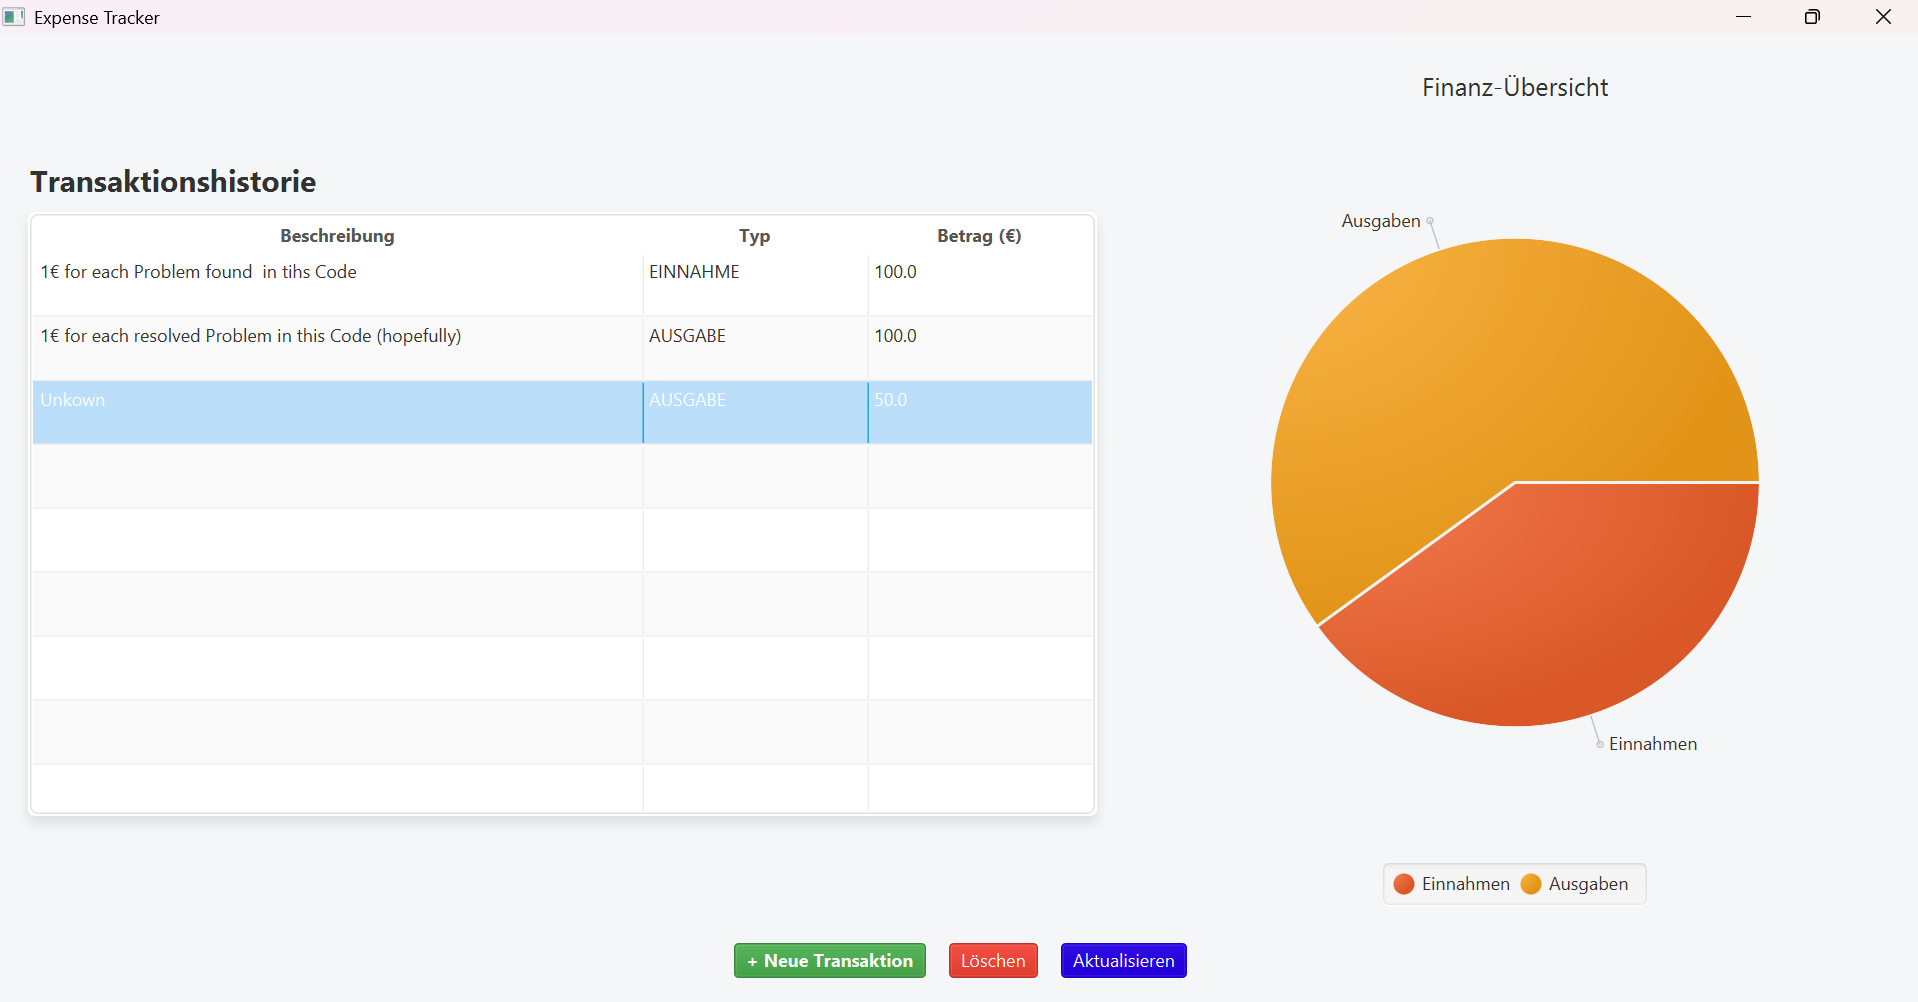
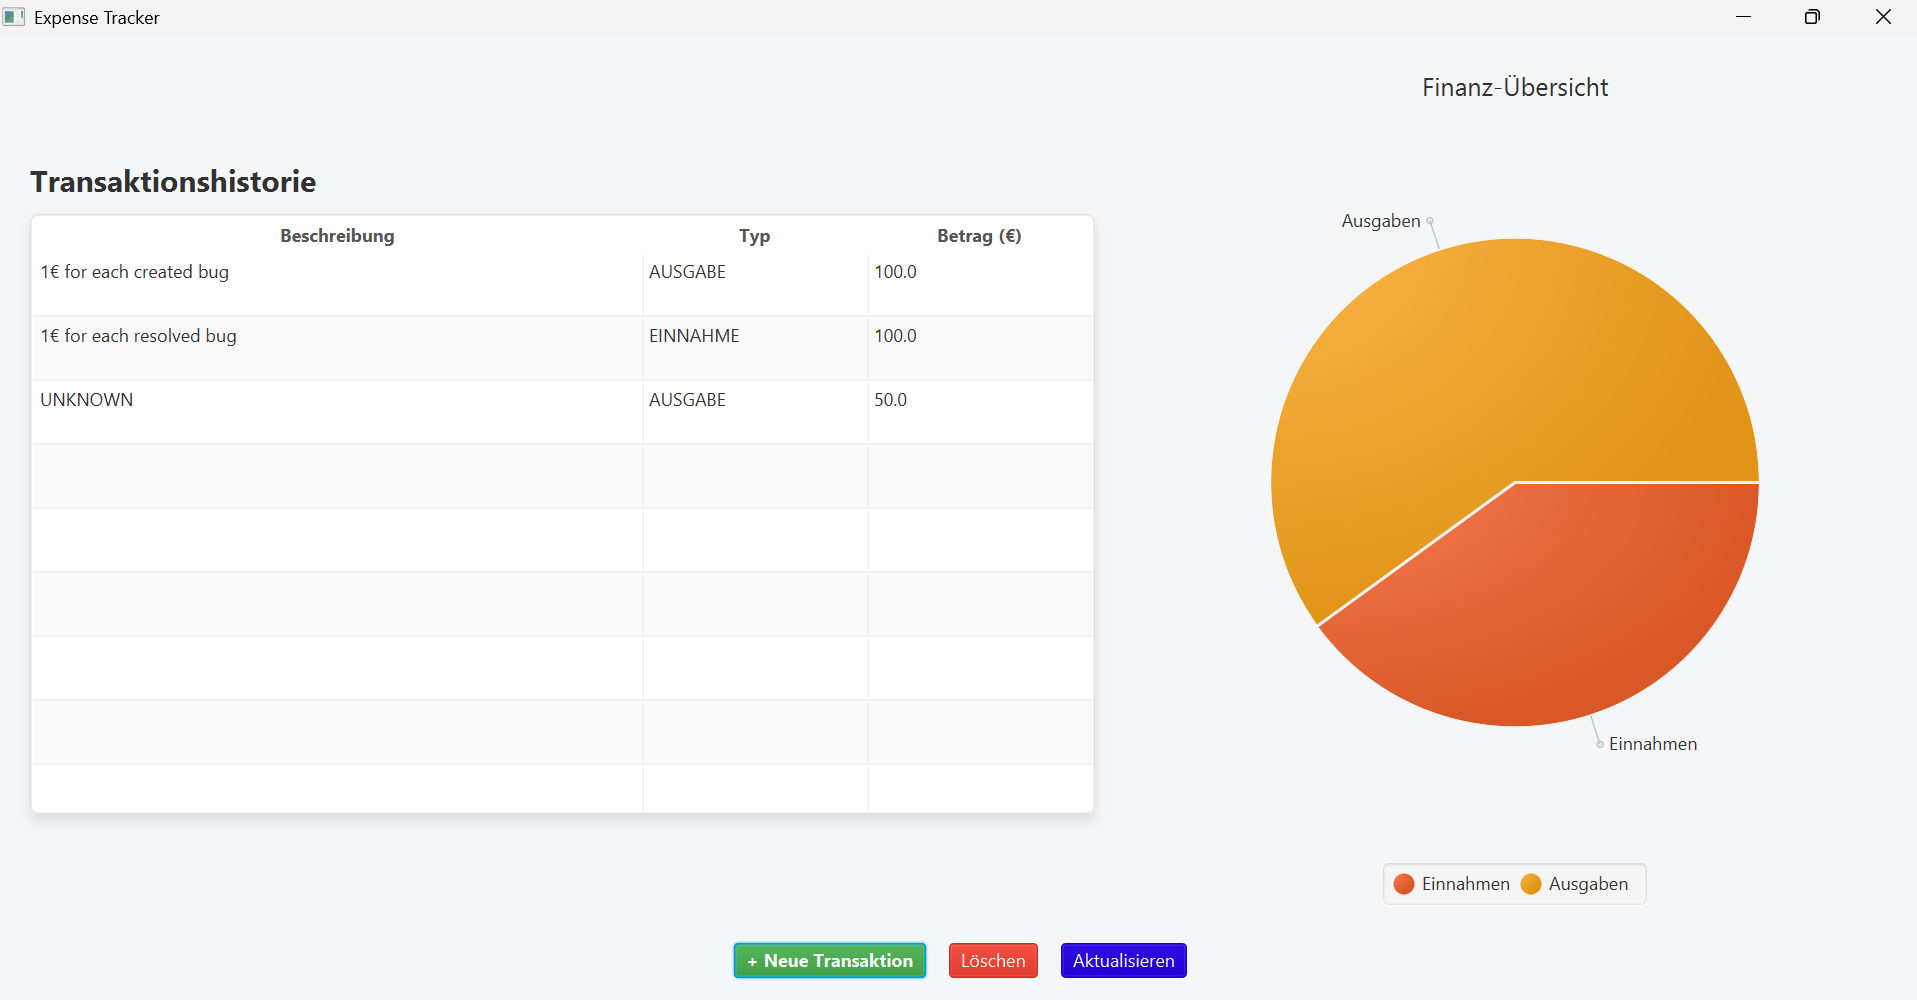
UML Diagramm erweitert/hinzugefügt, README korrigiert, erweitert

diff --git a/src/main/java/tracker/storage/TransactionFileStorage.java b/src/main/java/tracker/storage/TransactionFileStorage.java
@@ -12,9 +12,9 @@ import tracker.model.Type;
 
 public class TransactionFileStorage {
 
-    public static void saveTransactions(TransactionContainer p, String dateiPfad) {
+    public static void saveTransactions(TransactionContainer p) {
         System.out.println("Speichervorgang...");
-        Path pfad = Path.of(dateiPfad);
+        final Path pfad = Path.of("data", "Speicher.txt");
 
         try {
 
@@ -36,10 +36,10 @@ public class TransactionFileStorage {
         }
     }
 
-    public static TransactionContainer loadTransactions(String dateiPfad) {
+    public static TransactionContainer loadTransactions() {
 
         TransactionContainer Container = new TransactionContainer();
-        Path pfad = Path.of(dateiPfad);
+        Path pfad = Path.of("data", "Speicher.txt");
         if (!Files.exists(pfad)) {
             System.out.println("Keine Speicherdatei gefunden. Starte mit leerem Container");
             return Container;

diff --git a/src/main/java/tracker/service/TransactionManager.java b/src/main/java/tracker/service/TransactionManager.java
@@ -9,7 +9,6 @@ import tracker.storage.TransactionFileStorage;
 
 public class TransactionManager {
 
-    private static final String FILE_PATH = "Speicher.txt";
     private TransactionContainer container;
 
     public void TransactionHistory() {
@@ -19,7 +18,7 @@ public class TransactionManager {
     }
 
     public TransactionManager() {
-        this.container = TransactionFileStorage.loadTransactions(FILE_PATH);
+        this.container = TransactionFileStorage.loadTransactions();
     }
 
     public void addTransaction(String description, Type type, double sum) {
@@ -36,7 +35,7 @@ public class TransactionManager {
     }
 
     public void saveTransactions() {
-        TransactionFileStorage.saveTransactions(this.container, FILE_PATH);
+        TransactionFileStorage.saveTransactions(this.container);
         System.out.println("---Erfolgreich gespeichert!---");
 
     }

diff --git a/README.md b/README.md
@@ -1,7 +1,28 @@
 # First-Project: Expense-Tracker
 
 This has been my first learning project to apply my theoretical knowledge as a computer science student at the University of Augsburg. 
-It is a simple Transaction Manager that was initially designed as a console-based application and late  upgraded wit a Graphical User Interface. To ensure clean and maintainable code, I structured the application using the MVC pattern.
-It is built wiht Java and JavaFX, and compiled using Maven. 
+It is a simple Transaction Manager that was initially designed as a console-based application and later upgraded with a Graphical User Interface. To ensure clean and maintainable code, I structured the application using the MVC pattern.
+It is built with Java and JavaFX, and compiled using Maven. 
 
 ![Screenshot of the Expense Tracker](docs/screenshot.png)
+
+### Features
+* **Transaction Management:** Add, track, and categorize income and expenses.
+* **Data Persistence:** Transactions are saved locally, making sure that no data is lost between sessions.
+* **Visual Overview:** A pie chart, that provides a visual breakdown of the financial status.
+* **Clean Architecture:** Built with the MVC pattern to separate UI, data, and logic.
+
+### Tech Stack
+* **Language:** Java 
+* **Framework:** JavaFX
+* **Build Tool:** Maven
+* **Testing:** JUnit 5
+
+### How to Run
+1. Clone this repository to your local machine.
+2. Ensure you have a current JDK and Maven installed.
+3. Open a terminal in the project's root directory.
+4. Compile and launch the application using Maven:
+   `mvn clean javafx:run`
+
+![Screenshot of the UML Diagramm](docs/UMLDiagramm.png)
